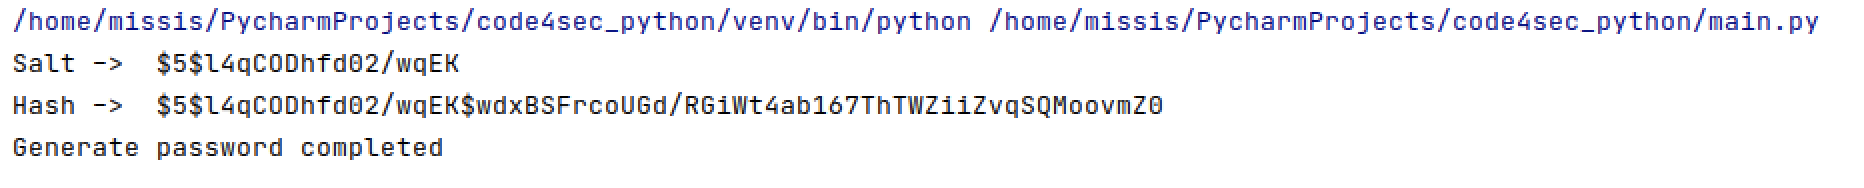
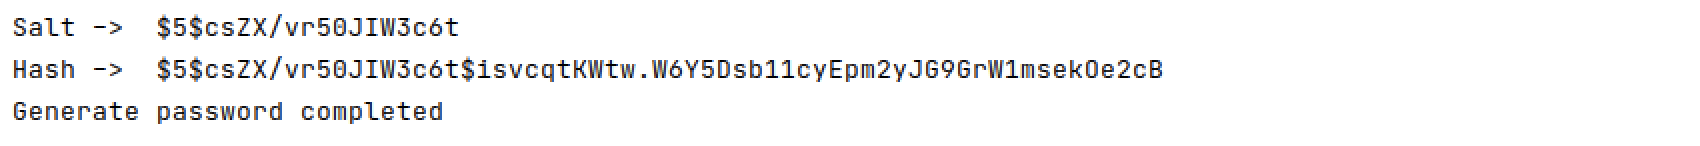
salt

Changed region(s): [[0.0, 0.0548, 0.9976, 0.6301], [0.0, 0.6849, 0.2806, 0.8493]]

diff --git a/code4sec/python_crypt_mksalt.md b/code4sec/python_crypt_mksalt.md
@@ -1,8 +1,8 @@
-#  Day X - Hashes should include an unpredictable salt
+#  Hashes should include an unpredictable salt
 
-## Salting
+## What is a salt?
 
-Salt เป็นวิธีการหนึ่งที่สามารถนำมาใช้เพิ่มความยาวให้กับรหัสผ่านโดยมีผลกระทบกับผู้ใช้งานน้อย คือการเพิ่มข้อมูลที่สุ่มขึ้นมาจำนวนหนึ่งเข้าไปในรหัสผ่านที่ผู้ใช้งานป้อนก่อนจะนำไป Hash ข้อมูลชุดที่เพิ่มขึ้นนี้ถูกเรียกว่า Salt ตัวอย่างเช่น เมื่อผู้ใช้งานตั้งค่ารหัสผ่านขึ้นมาเป็น “password123” ซึ่งมีความยาว 11 ตัวอักษร ระบบจะทำการสุ่มค่า Salt ขึ้นมาค่าหนึ่ง สมมุติให้เป็นค่า “qazws101” ซึ่งมีความยาว 8 ตัวอักษร ก่อนที่จะนำรหัสผ่านไปเก็บระบบจะนำ password กับ salt มาต่อกันแล้วจึงหา Hash ซึ่งจะเท่ากับ Hash นี้มีค่าตั้งต้นถึง 19 ตัวอักษร ซึ่งต้องใช้เวลาในการถอดรหัสนานกว่า Hash ของรหัสผ่านเดิมมาก ถึงแม้ว่าผู้ไม่ประสงค์ดีจะสามารถอ่านค่า Salt ของแต่ละรหัสผ่านได้โดยตรง แต่ก็ไม่ได้ช่วยให้การสุ่มหารหัสผ่านที่ถูกต้องง่ายขึ้นแต่อย่างใด เพราะอุปสรรคของการถอดรหัสค่า Hash อยู่ที่จำนวนครั้งที่ต้องคำนวณ Hash เป็นสำคัญ ในกรณีที่ให้รหัสผ่านเป็นตัวอักษรตัวเล็ก ตัวใหญ่ และตัวเลขเท่านั้น ซึ่งจะมีความเป็นไปได้ 62 แบบ จะเท่ากับว่า ถ้ารหัสผ่านยาว 14 ตัวอักษร ผู้ไม่ประสงค์ดีอาจต้อง Hash ถึง 62^11 ครั้ง ถึงจะได้ค่ารหัสผ่านที่ถูกต้อง แต่ถ้าเพิ่ม Salt เข้าไปอีก 8 ตัวอักษร จำนวนครั้งที่อาจต้องใช้จะมีถึง 62^19 ครั้ง ต่างกันหลายเท่า ซึ่งเป็นเวลาที่เพิ่มขึ้นอย่างมากเลยทีเดียว
+Salt สำหรับเพิ่มความปลอดภัยให้กับข้อมูลของเรา ซึ่งทำให้ใช้เวลาในการถอดรหัสมากขึ้น โดยมีผลกระทบกับผู้ใช้งานน้อย โดยเป็นการเพิ่มข้อมูลที่ถูกสุ่มขึ้นมาจำนวนหนึ่งเข้าไปในรหัสผ่านที่ผู้ใช้งานป้อนก่อนจะนำไป Hash ซึ่งข้อมูลชุดที่เพิ่มขึ้นมานี้ถูกเรียกว่า Salt ตัวอย่างเช่น เมื่อผู้ใช้งานตั้งค่ารหัสผ่านขึ้นมาเป็น “password123” ซึ่งมีความยาว 11 ตัวอักษร ระบบจะทำการสุ่มค่า Salt ขึ้นมาค่าหนึ่ง สมมุติให้เป็นค่า “qazws101” ซึ่งมีความยาว 8 ตัวอักษร ก่อนที่จะนำรหัสผ่านไปเก็บระบบจะนำ password กับ salt มาต่อกันแล้วจึงหา Hash ซึ่งจะเท่ากับ Hash นี้มีค่าตั้งต้นถึง 19 ตัวอักษร ซึ่งต้องใช้เวลาในการถอดรหัสนานกว่า Hash ของรหัสผ่านเดิมที่ไม่มีการใช้ salt มาก ถึงแม้ว่าผู้ไม่ประสงค์ดีจะสามารถอ่านค่า Salt ของแต่ละรหัสผ่านได้โดยตรง แต่ก็ไม่ได้ช่วยให้การสุ่มหารหัสผ่านที่ถูกต้องได้ง่ายมากขึ้น เพราะอุปสรรคของการถอดรหัสค่า Hash อยู่ที่จำนวนครั้งที่ต้องคำนวณ Hash เป็นสำคัญ ในกรณีที่ให้รหัสผ่านเป็นตัวอักษรตัวเล็ก ตัวใหญ่ และตัวเลขเท่านั้น ซึ่งจะมีความเป็นไปได้ 62 แบบ จะเท่ากับว่า ถ้ารหัสผ่านยาว 14 ตัวอักษร ผู้ไม่ประสงค์ดีอาจต้อง Hash ถึง 62^11 ครั้ง ถึงจะได้ค่ารหัสผ่านที่ถูกต้อง แต่ถ้าเพิ่ม Salt เข้าไปอีก 8 ตัวอักษร จำนวนครั้งที่อาจต้องใช้จะมีถึง 62^19 ครั้ง ซึ่งต่างกันหลายเท่าเป็นเวลาที่เพิ่มขึ้นอย่างมากเลยทีเดียว
 
 ![](img/salt_1.png)
 
@@ -38,12 +38,11 @@ hash = crypt.crypt(password)         # Noncompliant: salt is not provided
 hashlib
 
 ``` python
-import crypt
 import os
 from hashlib import pbkdf2_hmac
 
-# password ตัวอย่าง
-password = b'Password123'
+# example password
+password = 'Code4SecWeek'
 
 salt = os.urandom(32)
 print('Salt -> ', salt)
@@ -60,8 +59,8 @@ import crypt
 import os
 from hashlib import pbkdf2_hmac
 
-# password ตัวอย่าง
-password = 'Password123'
+# example password
+password = 'Code4SecWeek'
 
 salt = crypt.mksalt(crypt.METHOD_SHA256)
 print('Salt -> ', salt)
@@ -72,9 +71,14 @@ print('Hash -> ', hash)
 print('Generate password completed')
 ```
 
-เมื่อเราลองใช้งาน crypt โดยการ import crypt เพื่อทำการ generate ค่า salt แบบ random ด้วยคำสั่ง "crypt.mksalt(crypt.METHOD_SHA256)" โปรแกรมจะนำค่า Salt และค่า Hash ของ password มาต่อกัน ซึ่งต้องใช้เวลาในการถอดรหัสนานกว่า Hash ของรหัสผ่านเดิมมากขึ้นอย่างมหาศาลเลยทีเดียว
+เมื่อเราลอง import crypt เข้ามาในโปรแกรม เพื่อทำการ generate ค่า salt แบบ random ด้วยคำสั่ง "crypt.mksalt(crypt.METHOD_SHA256)" โปรแกรมจะนำค่า Salt และค่า Hash ของ password มาต่อกัน ซึ่งต้องใช้เวลาในการถอดรหัสนานกว่า Hash ของรหัสผ่านเดิมมากขึ้นอย่างมหาศาลเลยทีเดียว
 
 ![](img/salt_3.png)
+
+**Conclusion**
+* การเก็บข้อมูลที่สำคัญ เช่น รหัสผ่าน, เลขประจำตัวประชาชน ในฐานข้อมูล ควรเก็บในรูปแบบ Hash
+* รหัสผ่านยิ่งยาว จะยิ่งใช้เวลาในการถอดรหัสมากขึ้น และยิ่งมีการใช้ Salt ก็จะใช้เวลามากยิ่งขึ้น
+* ทางที่ดีที่สุดคือ อย่าให้รหัสผ่านหรือข้อมูลความลับที่เก็บอยู่ ถูกเข้าถึงจากผู้ที่ไม่ได้รับอนุญาต
 
 **Reference:**
 * [https://rules.sonarsource.com/python/type/Vulnerability/RSPEC-2053](https://rules.sonarsource.com/python/type/Vulnerability/RSPEC-2053)
